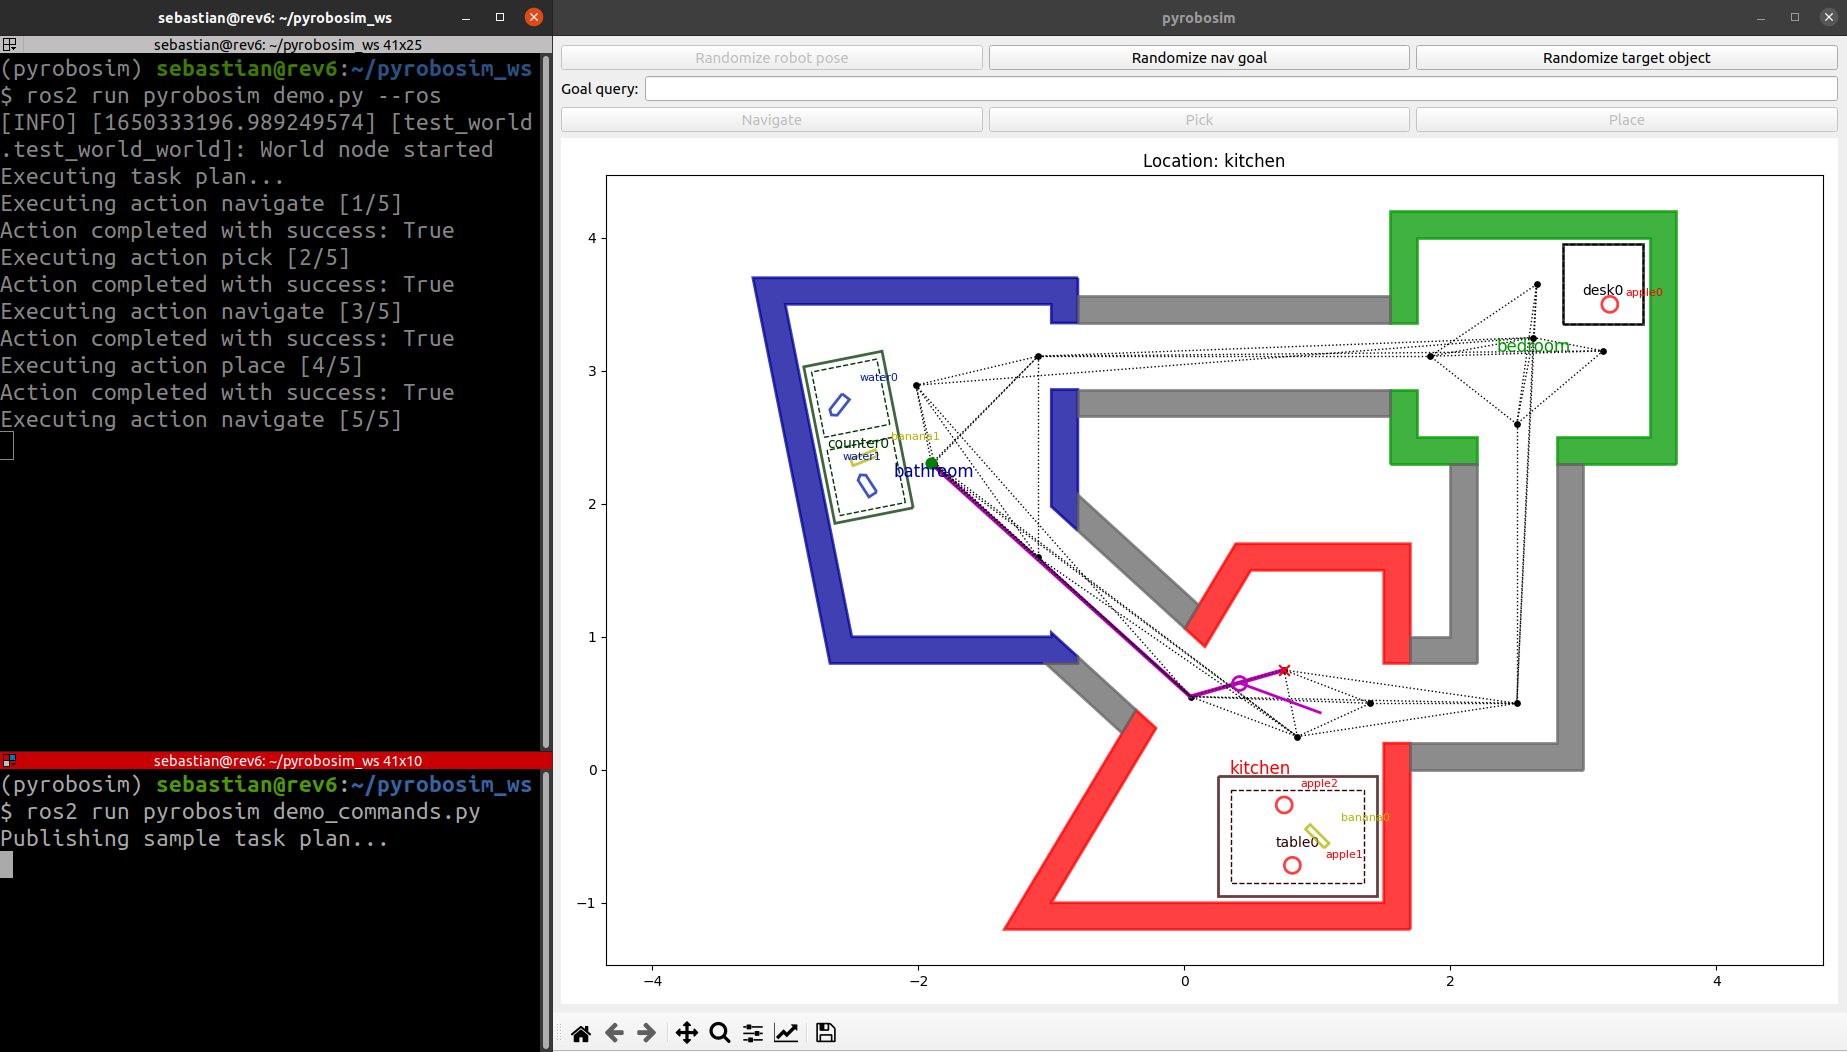
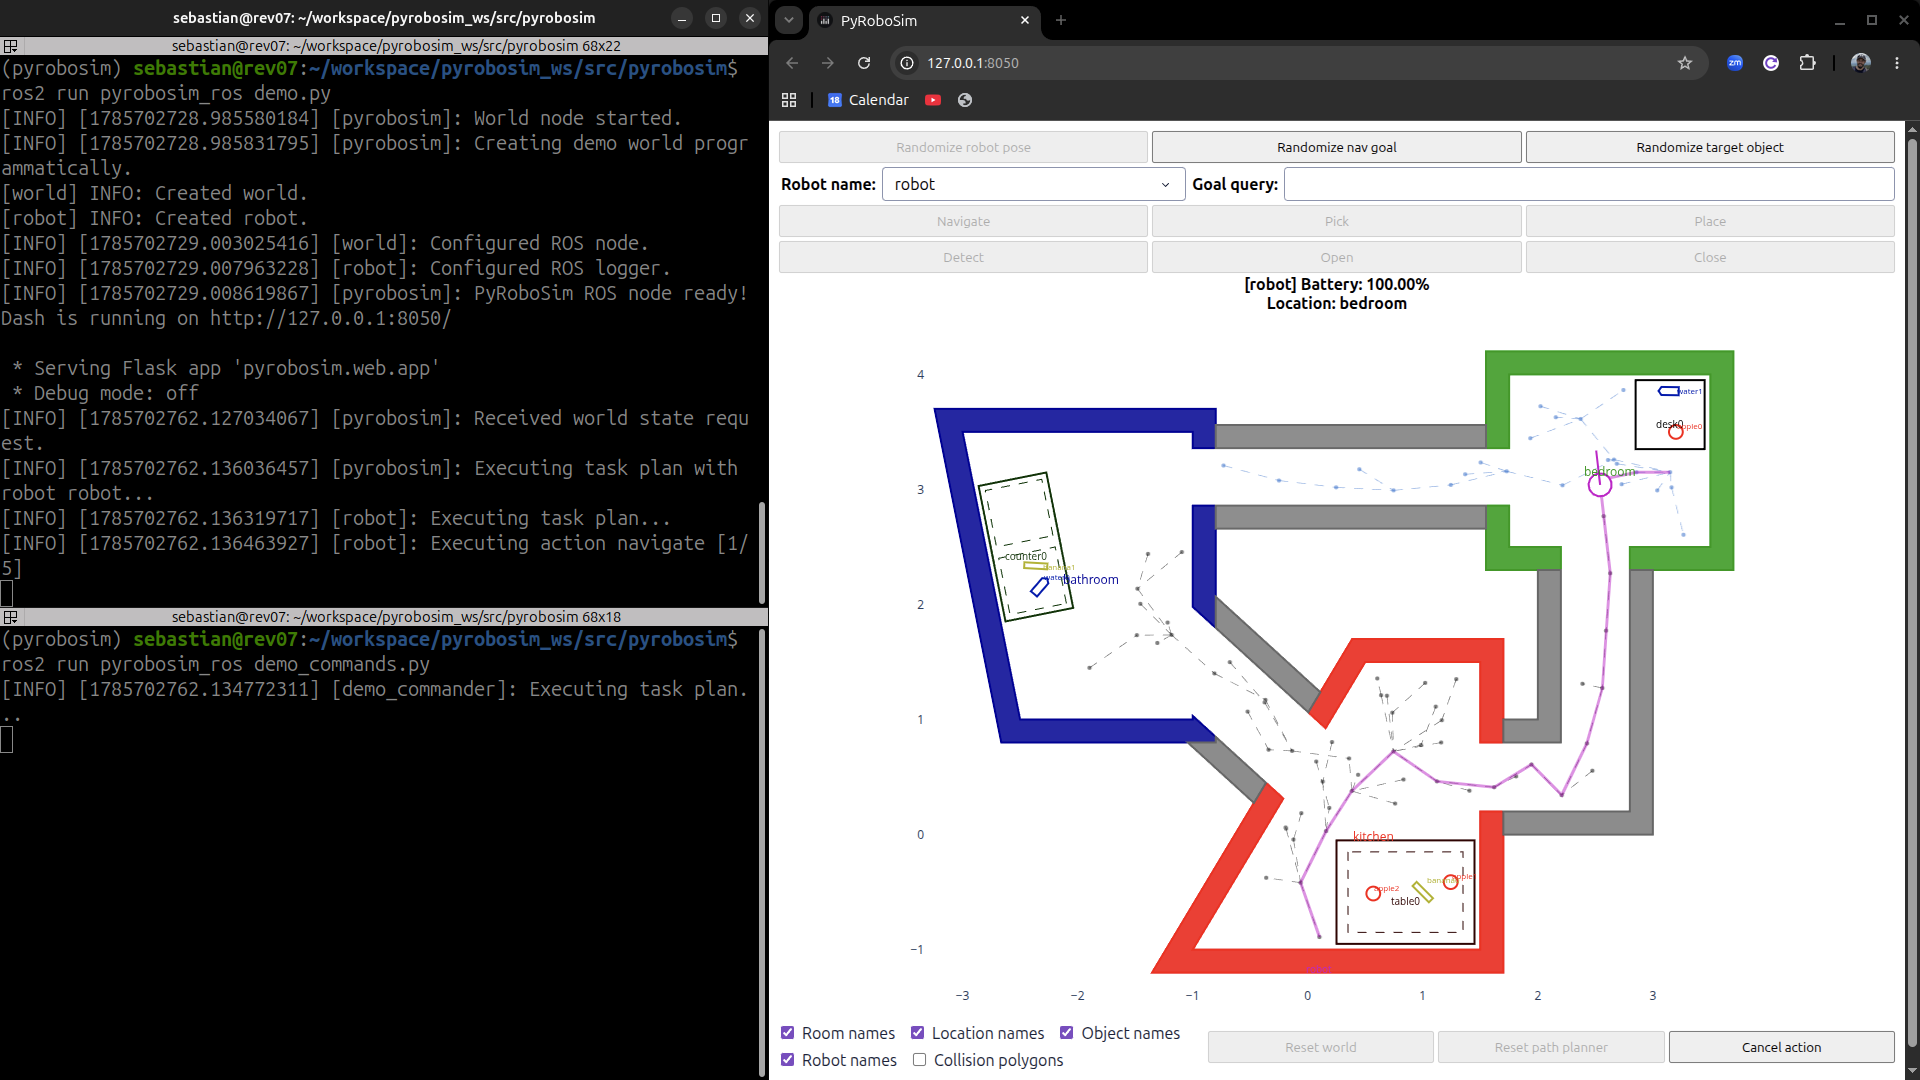
Update all screenshots

diff --git a/pyrobosim/test/web/test_web.py b/pyrobosim/test/web/test_web.py
@@ -5,10 +5,13 @@ Tests for the web UI figure building, commands, and app creation.
 from shapely.geometry import Polygon
 
 from pyrobosim.core import World
+from pyrobosim.utils.path import Path
+from pyrobosim.utils.pose import Pose
 from pyrobosim.web import commands
 from pyrobosim.web.app import create_app, status_text
 from pyrobosim.web.figure import (
     TRACES_PER_ROBOT,
+    _robot_trace_data,
     _svg_path,
     color_to_css,
     dynamic_patch,
@@ -102,6 +105,26 @@ def test_held_object_label(test_world: World) -> None:
         )
     finally:
         robot.manipulated_object = None
+
+
+def test_path_persists_after_navigation(test_world: World) -> None:
+    """The path trail stays rendered after arrival, until replaced or cleared."""
+    robot = test_world.robots[0]
+    path = Path(poses=[Pose(x=0.0, y=0.0), Pose(x=1.0, y=0.5), Pose(x=2.0, y=1.0)])
+    robot.displayed_path = path
+    try:
+        # Idle at the goal pose, i.e., navigation has finished.
+        robot.set_pose(path.poses[-1])
+        assert not robot.is_moving()
+        path_x, path_y = _robot_trace_data(robot).path
+        assert path_x == [0.0, 1.0, 2.0]
+        assert path_y == [0.0, 0.5, 1.0]
+
+        # Clearing the path (e.g., on planner reset) clears the trail.
+        robot.displayed_path = None
+        assert _robot_trace_data(robot).path == ([], [])
+    finally:
+        robot.displayed_path = None
 
 
 def test_resolve_robot(test_world: World) -> None:

diff --git a/pyrobosim/pyrobosim/web/figure.py b/pyrobosim/pyrobosim/web/figure.py
@@ -203,18 +203,15 @@ def _robot_trace_data(robot: Robot) -> RobotTraceData:
     pose = robot.get_pose()
 
     # Render only the path snapshotted by the robot; the planner's live state
-    # may be mid-replan.
+    # may be mid-replan. The path persists after navigation until the next
+    # plan replaces it or the planner is reset.
     path = robot.displayed_path
 
-    # The path shows while navigating or still untraversed (e.g., the planner
-    # demos plan without navigating), and clears once the robot arrives.
     path_x: list[Any] = []
     path_y: list[Any] = []
     if path is not None and path.num_poses > 1:
-        at_start = pose.get_linear_distance(path.poses[0]) < 0.05
-        if robot.is_moving() or at_start:
-            path_x = [p.x for p in path.poses]
-            path_y = [p.y for p in path.poses]
+        path_x = [p.x for p in path.poses]
+        path_y = [p.y for p in path.poses]
 
     # Sensor data (e.g., lidar rays), as None-separated line segments.
     sensor_x: list[Any] = []

diff --git a/docs/source/index.rst b/docs/source/index.rst
@@ -3,9 +3,9 @@
 PyRoboSim
 =========
 
-PyRoboSim is a ROS 2 enabled 2D mobile robot simulator for behavior prototyping.
+PyRoboSim is a 2D mobile robot simulator for behavior prototyping with an optional ROS 2 interface.
 
-.. youtube:: K5359uSeyVA
+.. youtube:: hojqw_78-jI
 
 |
 
